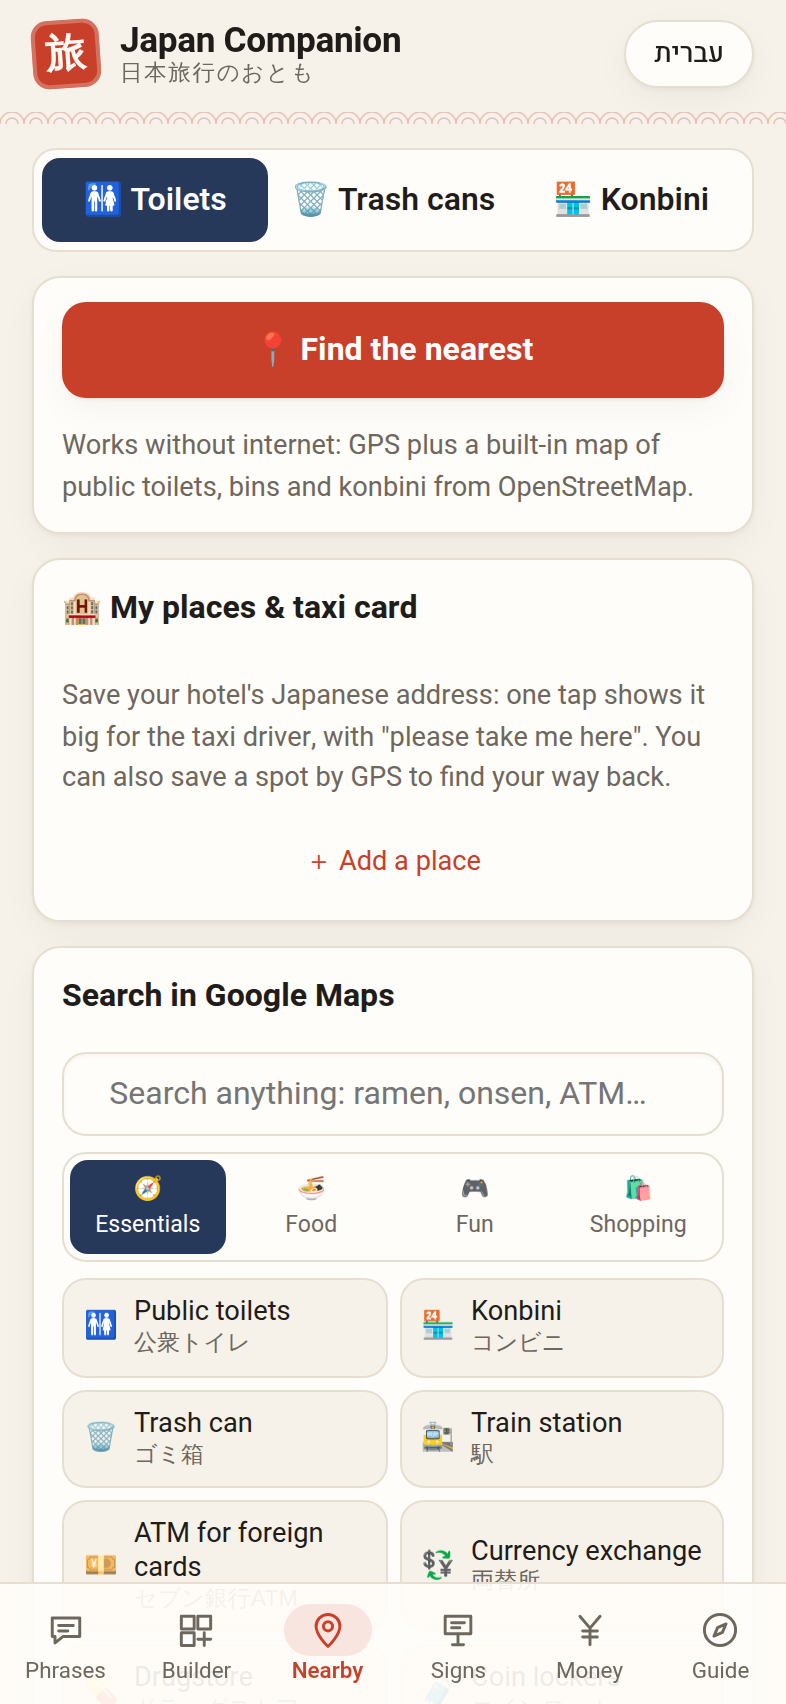
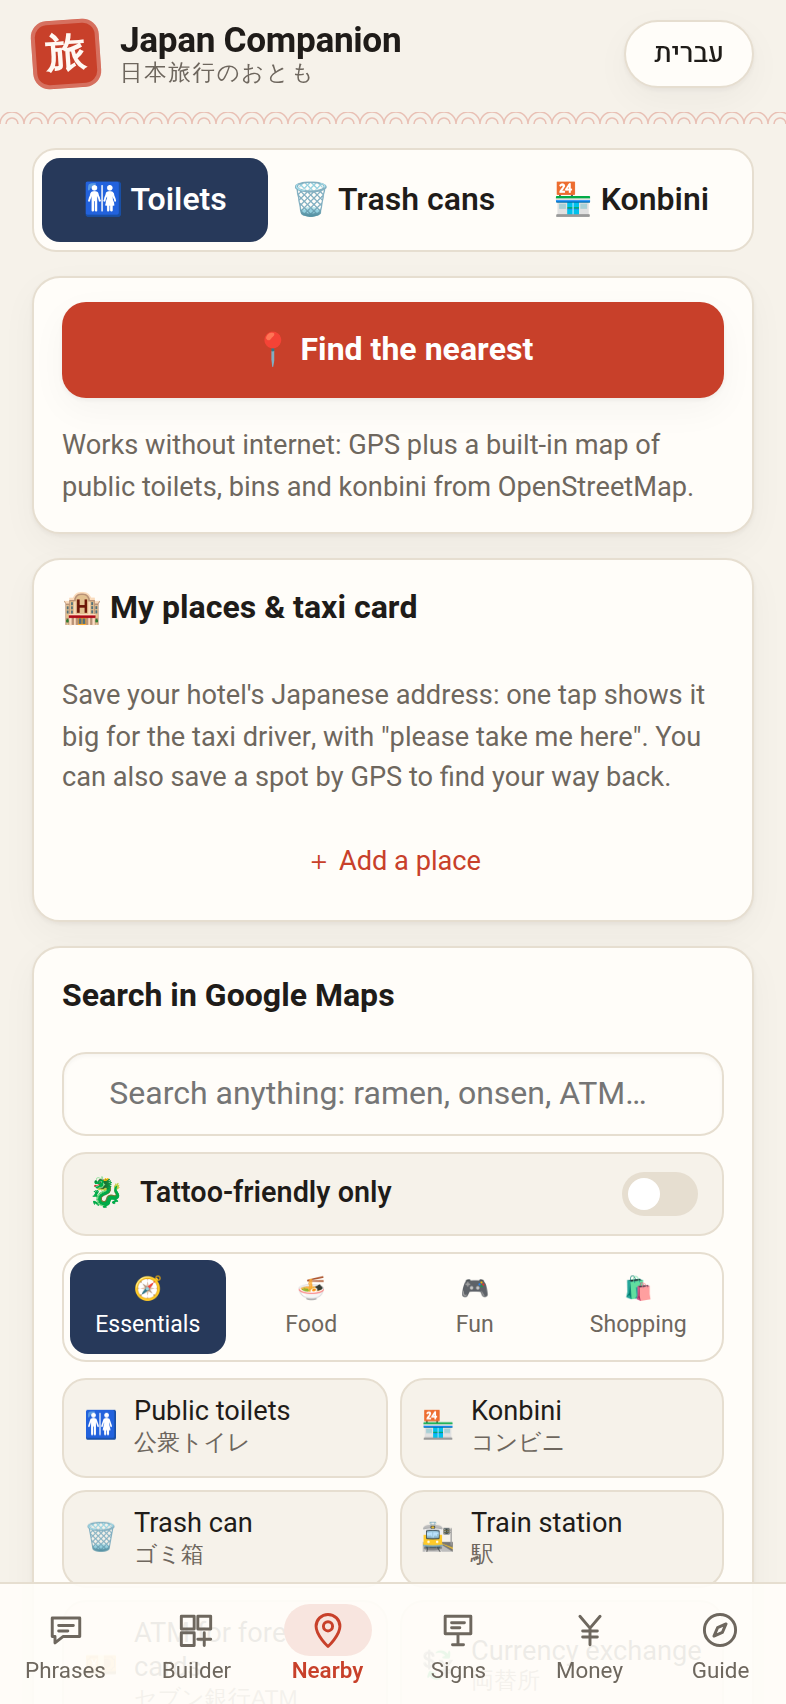
v0.10: tattoo-friendly filter for onsen, sento, saunas, gyms and pools
- Nearby: a persistent "tattoo-friendly only" switch turns the onsen, sento,
  sauna, gym and pool searches into タトゥーOK searches, adds private-bath and
  in-room-bath options, and shows tips, three phrases and the Tattoo Friendly
  database. Typed searches are limited the same way.
- Tips checked against the Anytime Fitness and Gold's Gym Japan FAQs
  (tattoos only if fully covered).
- Signs: 刺青・タトゥーお断り and タトゥーOK; long sign kanji now wrap on small screens.

Claude-Session: https://claude.ai/code/session_018bchT5sCpiiUFh9kUhpGf5

Changed region(s): [[0.0611, 0.6532, 0.916, 0.9331]]

diff --git a/app/src/features/nearby/NearbyView.tsx b/app/src/features/nearby/NearbyView.tsx
@@ -1,5 +1,17 @@
 import { lazy, Suspense, useCallback, useEffect, useMemo, useRef, useState } from 'react'
-import { LOCAL_APPS, NEARBY_PHRASES, NEARBY_TIPS, QUICK_SEARCHES, SEARCH_CATEGORIES, TRASH_MAP_URL } from '../../content/nearby'
+import {
+  LOCAL_APPS,
+  NEARBY_PHRASES,
+  NEARBY_TIPS,
+  QUICK_SEARCHES,
+  SEARCH_CATEGORIES,
+  TATTOO_PHRASES,
+  TATTOO_SEARCHES,
+  TATTOO_SITE,
+  TATTOO_TIPS,
+  TRASH_MAP_URL,
+  type NearbyPhrase,
+} from '../../content/nearby'
 import { Ja } from '../../components/Ja'
 import { ShowCard, type CardContent } from '../../components/ShowCard'
 import { SpeakButtons } from '../../components/SpeakButtons'
@@ -8,6 +20,7 @@ import { useI18n } from '../../i18n'
 import { PlacesPanel } from './PlacesPanel'
 import type { Key } from '../../i18n/en'
 import { matches } from '../../lib/search'
+import { load, save } from '../../lib/storage'
 import {
   BRAND_NAMES,
   compassWord,
@@ -60,6 +73,12 @@ export function NearbyView() {
   const [card, setCard] = useState<CardContent | null>(null)
   const [category, setCategory] = useState(SEARCH_CATEGORIES[0].id)
   const [text, setText] = useState('')
+  // Tattoo-friendly mode: onsen, sento, sauna, gym and pool searches limited to places that allow tattoos.
+  const [tattoo, setTattoo] = useState(() => load('jc.tattooFriendly', false))
+  const toggleTattoo = () => {
+    setTattoo(!tattoo)
+    save('jc.tattooFriendly', !tattoo)
+  }
   const watchId = useRef<number | null>(null)
 
   useEffect(() => {
@@ -101,13 +120,41 @@ export function NearbyView() {
   const current = KINDS.find((k) => k.id === kind)!
   const typed = text.trim()
   // Typing filters every quick search (in Hebrew, English or Japanese); anything else is searched as typed.
+  const pool = tattoo ? TATTOO_SEARCHES : QUICK_SEARCHES
   const searches = typed
-    ? QUICK_SEARCHES.filter((s) => matches(typed, [s.label.he, s.label.en, s.query]))
-    : SEARCH_CATEGORIES.find((c) => c.id === category)!.items
+    ? pool.filter((s) => matches(typed, [s.label.he, s.label.en, s.query]))
+    : tattoo
+      ? TATTOO_SEARCHES
+      : SEARCH_CATEGORIES.find((c) => c.id === category)!.items
+  const typedQuery = tattoo ? `タトゥーOK ${typed}` : typed
 
   const results = useMemo(
     () => (here && data ? nearest(here, data[kind], LIMIT, MAX_METERS) : []),
     [here, data, kind],
+  )
+
+  const phraseList = (list: NearbyPhrase[]) => (
+    <ul className="nearby-phrases">
+      {list.map((p) => (
+        <li key={p.id}>
+          <div className="nearby-phrase-text">
+            <span className="meaning">{pick(p)}</span>
+            <Ja className="ja-line small">{p.ja}</Ja>
+            <span className="romaji" dir="ltr">{p.romaji}</span>
+          </div>
+          <div className="actions">
+            <SpeakButtons text={p.ja} slowButton={false} />
+            <button
+              className="icon"
+              aria-label={t('phrases.show')}
+              onClick={() => setCard({ ja: p.ja, kana: p.kana, romaji: p.romaji, meaning: pick(p) })}
+            >
+              <Icon name="card" size={20} />
+            </button>
+          </div>
+        </li>
+      ))}
+    </ul>
   )
 
   return (
@@ -209,7 +256,11 @@ export function NearbyView() {
           value={text}
           onChange={(e) => setText(e.target.value)}
         />
-        {!typed && (
+        <button className={tattoo ? 'tattoo-toggle on' : 'tattoo-toggle'} aria-pressed={tattoo} onClick={toggleTattoo}>
+          <span aria-hidden>🐉</span> {t('nearby.tattoo')}
+          <span className="tattoo-switch" aria-hidden />
+        </button>
+        {!typed && !tattoo && (
           <div className="group-tabs four" role="tablist">
             {SEARCH_CATEGORIES.map((c) => (
               <button
@@ -227,10 +278,10 @@ export function NearbyView() {
         )}
         <div className="quick-grid">
           {typed && (
-            <a className="quick typed" href={searchUrl(typed)} target="_blank" rel="noopener noreferrer">
+            <a className="quick typed" href={searchUrl(typedQuery)} target="_blank" rel="noopener noreferrer">
               <span aria-hidden>🔎</span>
               <span className="quick-text">
-                <span>{t('nearby.searchTyped', { text: typed })}</span>
+                <span>{t('nearby.searchTyped', { text: typedQuery })}</span>
               </span>
             </a>
           )}
@@ -243,7 +294,7 @@ export function NearbyView() {
               </span>
             </a>
           ))}
-          {!typed && category === 'essentials' && (
+          {!typed && !tattoo && category === 'essentials' && (
             <a className="quick" href={TRASH_MAP_URL} target="_blank" rel="noopener noreferrer">
               <span aria-hidden>🗺</span>
               <span className="quick-text">
@@ -252,7 +303,25 @@ export function NearbyView() {
             </a>
           )}
         </div>
-        <p className="muted small-start">{t('nearby.searchNote')}</p>
+        <p className="muted small-start">{t(tattoo ? 'nearby.tattooNote' : 'nearby.searchNote')}</p>
+        {tattoo && (
+          <div className="tattoo-panel">
+            <a className="app-link" href={TATTOO_SITE.url} target="_blank" rel="noopener noreferrer">
+              <span className="app-icon" aria-hidden>🐉</span>
+              <span className="app-text">
+                <span className="app-name">{TATTOO_SITE.name}</span>
+                <span className="muted app-what">{t('nearby.tattooSite')}</span>
+              </span>
+              <span aria-hidden className="app-go">↗</span>
+            </a>
+            <ul className="tips">
+              {TATTOO_TIPS.map((tip, i) => (
+                <li key={i}>{pick(tip)}</li>
+              ))}
+            </ul>
+            {phraseList(TATTOO_PHRASES)}
+          </div>
+        )}
       </section>
 
       <details className="panel guide nearby-apps">
@@ -283,27 +352,7 @@ export function NearbyView() {
 
       <section className="panel">
         <h3>{t('nearby.say')}</h3>
-        <ul className="nearby-phrases">
-          {NEARBY_PHRASES.map((p) => (
-            <li key={p.id}>
-              <div className="nearby-phrase-text">
-                <span className="meaning">{pick(p)}</span>
-                <Ja className="ja-line small">{p.ja}</Ja>
-                <span className="romaji" dir="ltr">{p.romaji}</span>
-              </div>
-              <div className="actions">
-                <SpeakButtons text={p.ja} slowButton={false} />
-                <button
-                  className="icon"
-                  aria-label={t('phrases.show')}
-                  onClick={() => setCard({ ja: p.ja, kana: p.kana, romaji: p.romaji, meaning: pick(p) })}
-                >
-                  <Icon name="card" size={20} />
-                </button>
-              </div>
-            </li>
-          ))}
-        </ul>
+        {phraseList(NEARBY_PHRASES)}
       </section>
 
       <section className="panel">

diff --git a/app/src/content/nearby.ts b/app/src/content/nearby.ts
@@ -6,6 +6,8 @@ export interface QuickSearch {
   icon: string
   label: Bi
   query: string
+  /** The same search limited to places reviews or listings call tattoo-friendly. */
+  tattoo?: string
 }
 
 export interface SearchCategory {
@@ -15,7 +17,13 @@ export interface SearchCategory {
   items: QuickSearch[]
 }
 
-const q = (id: string, icon: string, he: string, en: string, query: string): QuickSearch => ({ id, icon, label: { he, en }, query })
+const q = (id: string, icon: string, he: string, en: string, query: string, tattoo?: string): QuickSearch => ({
+  id,
+  icon,
+  label: { he, en },
+  query,
+  ...(tattoo ? { tattoo } : {}),
+})
 
 export const SEARCH_CATEGORIES: SearchCategory[] = [
   {
@@ -69,8 +77,11 @@ export const SEARCH_CATEGORIES: SearchCategory[] = [
       q('karaoke', '🎤', 'קריוקי', 'Karaoke', 'カラオケ'),
       q('gacha', '🥚', 'מכונות גאצ׳ה', 'Gacha machines', 'ガチャガチャ'),
       q('purikura', '📸', 'פוריקורה (תאי צילום)', 'Purikura photo booths', 'プリクラ'),
-      q('onsen', '♨', 'אונסן ליום', 'Day-trip onsen', '日帰り温泉'),
-      q('sento', '🛁', 'מרחץ ציבורי', 'Public bath (sento)', '銭湯'),
+      q('onsen', '♨', 'אונסן ליום', 'Day-trip onsen', '日帰り温泉', 'タトゥーOK 温泉'),
+      q('sento', '🛁', 'מרחץ ציבורי', 'Public bath (sento)', '銭湯', 'タトゥーOK 銭湯'),
+      q('sauna', '🧖', 'סאונה', 'Sauna', 'サウナ', 'タトゥーOK サウナ'),
+      q('gym', '🏋', 'חדר כושר ליום', 'Gym (day pass)', 'ジム ドロップイン', 'タトゥーOK ジム'),
+      q('pool', '🏊', 'בריכה', 'Swimming pool', 'プール', 'タトゥーOK プール'),
       q('ashiyu', '🦶', 'אמבט רגליים', 'Foot bath', '足湯'),
       q('cat-cafe', '🐈', 'קפה חתולים', 'Cat café', '猫カフェ'),
       q('animal-cafe', '🦔', 'קפה חיות', 'Animal café', '動物カフェ'),
@@ -106,6 +117,37 @@ export const SEARCH_CATEGORIES: SearchCategory[] = [
       q('tax-free', '🧾', 'חנות פטורה ממס', 'Tax-free shop', '免税店'),
     ],
   },
+]
+
+/** Tattoo-friendly mode: the searches above that have a tattoo variant, plus options that are always fine. */
+export const TATTOO_EXTRA: QuickSearch[] = [
+  q('private-bath', '🔒', 'אמבט פרטי להשכרה (תמיד מותר)', 'Private bath for hire (always fine)', '貸切風呂'),
+  q('room-onsen', '🏯', 'ריוקן עם אונסן בחדר', 'Ryokan with a bath in the room', '客室露天風呂付き 旅館'),
+  q('tattoo-en', '🔎', 'ביקורות באנגלית: tattoo friendly', 'English reviews: tattoo friendly', 'tattoo friendly onsen'),
+]
+
+export const TATTOO_SEARCHES: QuickSearch[] = [
+  ...SEARCH_CATEGORIES.flatMap((c) => c.items)
+    .filter((s) => s.tattoo)
+    .map((s) => ({ ...s, query: s.tattoo! })),
+  ...TATTOO_EXTRA,
+]
+
+export const TATTOO_SITE = { name: 'Tattoo Friendly', url: 'https://tattoo-friendly.jp/' }
+
+export const TATTOO_TIPS: Bi[] = [
+  { he: 'הרבה אונסנים, "סופר סנטו", בריכות וחדרי כושר אוסרים קעקועים גלויים. תמיד בודקים לפני שנוסעים, כי המדיניות משתנה.', en: 'Many onsen, "super sento", pools and gyms ban visible tattoos. Always check before you go; policies change.' },
+  { he: 'השלט 刺青・タトゥーお断り פירושו "אין כניסה עם קעקועים". タトゥーOK פירושו מותר.', en: 'The sign 刺青・タトゥーお断り means "no tattoos". タトゥーOK means they\'re allowed.' },
+  { he: 'הפתרון הבטוח: אמבט פרטי (貸切風呂) או חדר בריוקן עם אונסן צמוד. אף אחד לא בודק.', en: 'The sure thing: a private bath (貸切風呂) or a ryokan room with its own bath. Nobody checks.' },
+  { he: 'קעקוע קטן? הרבה מקומות מקבלים אם הוא מכוסה במדבקת כיסוי (タトゥーカバーシール), שנמכרת בבתי מרקחת ובדון קיחוטה.', en: 'Small tattoo? Many places accept it covered with a cover sticker (タトゥーカバーシール), sold at drugstores and Don Quijote.' },
+  { he: 'במרחצאות השכונתיים (銭湯) בדרך כלל מקלים יותר מאשר באונסנים של אתרי נופש, אבל כל מקום מחליט לבד.', en: 'Neighbourhood sento are usually more relaxed than resort onsen, but each bath decides.' },
+  { he: 'רשתות הכושר Anytime Fitness ו-Gold\'s Gym מאפשרות מתאמנים עם קעקועים רק אם הקעקוע מכוסה לגמרי (שרוול ארוך או טייפ).', en: 'Gym chains Anytime Fitness and Gold\'s Gym take tattooed members only if the tattoo is fully covered (long sleeves or tape).' },
+]
+
+export const TATTOO_PHRASES: NearbyPhrase[] = [
+  { id: 'tattoo-enter', ja: 'タトゥーがありますが、入れますか', kana: 'タトゥーがありますが、はいれますか', romaji: 'tatū ga arimasu ga, hairemasu ka', he: 'יש לי קעקוע, אפשר להיכנס?', en: 'I have a tattoo. Can I go in?' },
+  { id: 'tattoo-sticker', ja: 'シールで隠せば大丈夫ですか', kana: 'シールでかくせばだいじょうぶですか', romaji: 'shīru de kakuseba daijōbu desu ka', he: 'זה בסדר אם אכסה אותו במדבקה?', en: 'Is it OK if I cover it with a sticker?' },
+  { id: 'private-bath', ja: '貸切風呂はありますか', kana: 'かしきりぶろはありますか', romaji: 'kashikiri buro wa arimasu ka', he: 'יש אמבט פרטי להשכרה?', en: 'Do you have a private bath?' },
 ]
 
 /** Every quick search, for free-text matching. */

diff --git a/app/src/styles.css b/app/src/styles.css
@@ -269,8 +269,10 @@ main {
   padding: 10px 14px;
 }
 .sign-kanji {
-  flex: none;
+  flex: 0 1 auto;
   min-width: 76px;
+  max-inline-size: 60%;
+  overflow-wrap: anywhere;
   text-align: center;
   font-family: var(--font-mincho);
   font-size: 1.7rem;
@@ -280,6 +282,7 @@ main {
   background: var(--shu-soft);
   color: var(--shu);
 }
+.sign-text { min-width: 0; }
 .sign-meaning { font-weight: 600; }
 .sign-reading { color: var(--ink-2); font-size: 0.9rem; }
 
@@ -679,3 +682,43 @@ button.nearby-go { background: none; }
 .whatsnew-item { display: flex; align-items: center; gap: 8px; inline-size: 100%; text-align: start; border: 0; background: none; padding: 6px 0; font-size: 0.88rem; color: var(--ink); }
 .whatsnew-item span:nth-child(2) { flex: 1; }
 .whatsnew-go { color: var(--shu); font-weight: 700; }
+
+/* Tattoo-friendly filter */
+.tattoo-toggle {
+  display: flex;
+  align-items: center;
+  gap: 8px;
+  padding: 9px 12px;
+  border: 1px solid var(--line);
+  border-radius: 12px;
+  background: var(--paper);
+  color: var(--ink);
+  font-weight: 600;
+  font-size: 0.9rem;
+  text-align: start;
+}
+.tattoo-toggle.on { border-color: var(--shu); background: var(--shu-soft); }
+.tattoo-switch {
+  margin-inline-start: auto;
+  flex: none;
+  inline-size: 38px;
+  block-size: 22px;
+  border-radius: 999px;
+  background: var(--line);
+  position: relative;
+  transition: background 0.2s;
+}
+.tattoo-switch::after {
+  content: '';
+  position: absolute;
+  inset-block-start: 3px;
+  inset-inline-start: 3px;
+  inline-size: 16px;
+  block-size: 16px;
+  border-radius: 50%;
+  background: #fff;
+  transition: inset-inline-start 0.2s;
+}
+.tattoo-toggle.on .tattoo-switch { background: var(--shu); }
+.tattoo-toggle.on .tattoo-switch::after { inset-inline-start: 19px; }
+.tattoo-panel { display: flex; flex-direction: column; gap: 10px; }

diff --git a/app/src/content/whatsNew.ts b/app/src/content/whatsNew.ts
@@ -3,13 +3,9 @@ import type { Bi } from './guide'
 
 /** Shown once after an update. Bump `version` and replace the items when shipping something worth pointing at. */
 export const WHATS_NEW: { version: string; items: (Bi & { icon: string; tab: Tab })[] } = {
-  version: '0.9',
+  version: '0.10',
   items: [
-    { icon: '👛', tab: 'money', he: 'ארנק הטיול: מתעדים הוצאות ורואים סך הכל בשקלים', en: 'Trip wallet: log spending, see the total in ₪' },
-    { icon: '🏨', tab: 'nearby', he: 'כרטיס למונית עם כתובת המלון ביפנית', en: 'Taxi card with your hotel\'s Japanese address' },
-    { icon: '🏪', tab: 'nearby', he: 'הקונביני הקרוב, 60+ חיפושים ואפליקציות של מקומיים', en: 'Nearest konbini, 60+ searches and apps locals use' },
-    { icon: '🎴', tab: 'phrases', he: 'תרגול כרטיסיות לטיסה (בסוף רשימת הקטגוריות)', en: 'Flashcard practice for the flight (end of the category list)' },
-    { icon: '🍙', tab: 'signs', he: 'תוויות קונביני: מילויי אוניגירי, הנחות, חם/קר', en: 'Konbini labels: onigiri fillings, discounts, hot/cold' },
-    { icon: '🍁', tab: 'guide', he: 'סתיו ביפן ומידות בגדים ונעליים', en: 'Autumn in Japan, plus clothes & shoe sizes' },
+    { icon: '🐉', tab: 'nearby', he: 'בסביבה: מתג "רק ידידותי לקעקועים" לאונסן, מרחצאות, סאונה, חדר כושר ובריכה', en: 'Nearby: a "tattoo-friendly only" switch for onsen, sento, saunas, gyms and pools' },
+    { icon: '🈯', tab: 'signs', he: 'שלטים: איך נראה שלט "אין כניסה עם קעקועים"', en: 'Signs: what a "no tattoos" notice looks like' },
   ],
 }

diff --git a/app/src/i18n/he.ts b/app/src/i18n/he.ts
@@ -53,6 +53,9 @@ export const he: Record<Key, string> = {
   'places.saveHere': 'לשמור איפה שאני',
   'places.cancel': 'ביטול',
   'places.confirmDelete': 'למחוק את "{name}"?',
+  'nearby.tattoo': 'רק ידידותי לקעקועים',
+  'nearby.tattooNote': 'מחפש אונסנים, מרחצאות, סאונות, חדרי כושר ובריכות שמתוארים בביקורות או ברישום כידידותיים לקעקועים (タトゥーOK). גוגל לא יכול להבטיח את זה, אז כדאי לבדוק את השלט או לשאול לפני שמשלמים.',
+  'nearby.tattooSite': 'מאגר באנגלית של אונסנים, מרחצאות, חדרי כושר ומלונות שמתירים קעקועים',
   'nearby.trashMap': 'מפת פחים ביפן',
   'nearby.say': 'מה להגיד',
   'nearby.tips': 'טוב לדעת',

diff --git a/app/src/i18n/en.ts b/app/src/i18n/en.ts
@@ -52,6 +52,9 @@ export const en = {
   'places.saveHere': 'Save where I am',
   'places.cancel': 'Cancel',
   'places.confirmDelete': 'Delete "{name}"?',
+  'nearby.tattoo': 'Tattoo-friendly only',
+  'nearby.tattooNote': "Searches onsen, sento, saunas, gyms and pools that reviews or listings call tattoo-friendly (タトゥーOK). Google can't guarantee it, so check the place's notice or ask before paying.",
+  'nearby.tattooSite': 'Database of tattoo-friendly onsen, sento, gyms and hotels, in English',
   'nearby.trashMap': 'Japan Trash Can Map',
   'nearby.say': 'What to say',
   'nearby.tips': 'Good to know',

diff --git a/README.md b/README.md
@@ -9,7 +9,7 @@ visitor well.
 2. **Money:** know what something costs in shekels and dollars, and handle a
    country that still runs on cash.
 
-> **Status:** v0.9: konbini labels in Signs and a one-time ✨ "What's new" card after each update. v0.8: 👛 trip wallet, 🏨 saved places with a taxi card, 🎴 practice flashcards, 👟 size converter, 🍁 autumn guide; Nearby adds konbini, 60+ searches and local apps. v0.7 added the 📍 Nearby tab (toilets and bins). v0.6: The builder only offers sensible sentences (58 frames, 3,056 hand-checked
+> **Status:** v0.10: 🐉 "tattoo-friendly only" switch in Nearby (onsen, sento, sauna, gym, pool searches limited to タトゥーOK places, private-bath options, tips, phrases, and the Tattoo Friendly database). v0.9: konbini labels in Signs and a one-time ✨ "What's new" card after each update. v0.8: 👛 trip wallet, 🏨 saved places with a taxi card, 🎴 practice flashcards, 👟 size converter, 🍁 autumn guide; Nearby adds konbini, 60+ searches and local apps. v0.7 added the 📍 Nearby tab (toilets and bins). v0.6: The builder only offers sensible sentences (58 frames, 3,056 hand-checked
 > combinations), with long word lists folded behind "+N more". Light, modern Japanese design; 137 ready phrases; works offline.
 
 **Live app:** https://guyyyy15-web.github.io/japan-companion/ (deployed automatically
